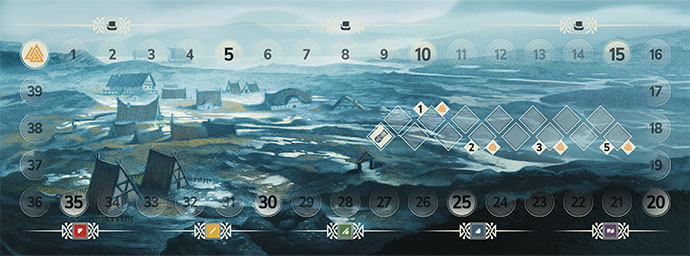
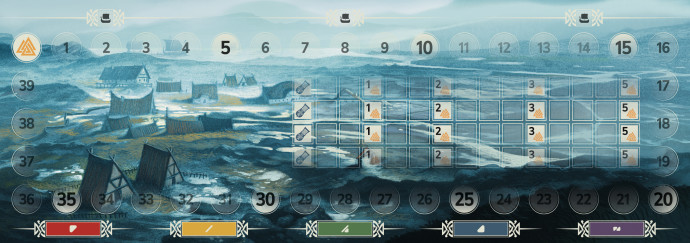
new board

diff --git a/modules/js/Game.js b/modules/js/Game.js
@@ -497,8 +497,8 @@ class RenewBuildings {
     }
 }
 
-const POINT_CASE_SIZE_LEFT = 38.8;
-const POINT_CASE_SIZE_TOP = 37.6;
+const POINT_CASE_SIZE_LEFT = 39.8;
+const POINT_CASE_SIZE_TOP = 38.2;
 function sleep(ms) {
     return new Promise((r) => setTimeout(r, ms));
 }
@@ -555,8 +555,8 @@ class TableCenter {
             ${['B', 'A'].map(letter => `<div id="table-destinations-${letter}-deck" class="table-destinations-deck"></div> <div id="table-destinations-${letter}"></div>`).join('')}
             <div id="board-left"></div> <div id="board">
                 ${players.map(player => `
-                    <div id="player-${player.id}-vp-marker" class="marker" data-player-id="${player.id}" data-player-no="${player.playerNo}" data-color="${player.color}"><div class="inner vp"></div></div>
-                    <div id="player-${player.id}-reputation-marker" class="marker" data-player-id="${player.id}" data-player-no="${player.playerNo}" data-color="${player.color}"><div class="inner reputation"></div></div>
+                    <div id="player-${player.id}-vp-marker" class="marker vp" data-player-id="${player.id}" data-player-no="${player.playerNo}" data-color="${player.color}"><div class="inner"></div></div>
+                    <div id="player-${player.id}-reputation-marker" class="marker reputation" data-player-id="${player.id}" data-player-no="${player.playerNo}" data-color="${player.color}"><div class="inner"></div></div>
                     `).join('')}
             </div>
             <div id="card-deck"></div> <div id="table-cards"></div>
@@ -584,7 +584,7 @@ class TableCenter {
         this.cards = new BgaCards.SlotStock /*<Card>*/(game.cardsManager, document.getElementById(`table-cards`), {
             slotsIds: [1, 2, 3, 4, 5],
             mapCardToSlot: card => card.locationArg,
-            gap: '12px',
+            gap: '16px',
         });
         this.cards.onCardClick = card => this.game.onTableCardClick(card);
         this.cards.addCards(gamedatas.centerCards);
@@ -661,7 +661,7 @@ class TableCenter {
         const cases = points % 40;
         const top = cases >= 16 ? (cases > 36 ? (40 - cases) : Math.min(4, cases - 16)) * POINT_CASE_SIZE_TOP : 0;
         const left = cases > 20 ? (36 - Math.min(cases, 36)) * POINT_CASE_SIZE_LEFT : Math.min(16, cases) * POINT_CASE_SIZE_LEFT;
-        return [22 + left, 39 + top];
+        return [14 + left, 34 + top];
     }
     moveVP() {
         this.vp.forEach((points, playerId) => {
@@ -684,27 +684,12 @@ class TableCenter {
         this.vp.set(playerId, points);
         this.moveVP();
     }
-    getReputationCoordinates(points) {
-        const cases = points;
-        const top = cases % 2 ? -14 : 0;
-        const left = cases * 16.9;
-        return [368 + left, 123 + top];
-    }
     moveReputation() {
         this.reputation.forEach((points, playerId) => {
             const markerDiv = document.getElementById(`player-${playerId}-reputation-marker`);
-            const coordinates = this.getReputationCoordinates(points);
-            const left = coordinates[0];
-            const top = coordinates[1];
-            let topShift = 0;
-            let leftShift = 0;
-            this.reputation.forEach((iPoints, iPlayerId) => {
-                if (iPoints === points && iPlayerId < playerId) {
-                    topShift += 5;
-                    //leftShift += 5;
-                }
-            });
-            markerDiv.style.transform = `translateX(${left + leftShift}px) translateY(${top + topShift}px)`;
+            const left = 293 + 23.35 * points;
+            const top = 76 + 24 * (this.game.bga.players.getPlayer(playerId).playerNo - 1);
+            markerDiv.style.transform = `translateX(${left}px) translateY(${top}px)`;
         });
     }
     setReputation(playerId, reputation) {

diff --git a/src/table-center.ts b/src/table-center.ts
@@ -2,8 +2,8 @@ import { ANIMATION_MS } from "./Game";
 import { Card, KnarrGame, KnarrGamedatas, NotifCardDeckResetArgs, Destination, Building, RaidToken } from "./knarr.d";
 import { BgaCards } from "./libs";
 
-const POINT_CASE_SIZE_LEFT = 38.8;
-const POINT_CASE_SIZE_TOP = 37.6;
+const POINT_CASE_SIZE_LEFT = 39.8;
+const POINT_CASE_SIZE_TOP = 38.2;
 
 function sleep(ms: number){
     return new Promise((r) => setTimeout(r, ms));
@@ -87,8 +87,8 @@ export class TableCenter {
             <div id="board-left"></div> <div id="board">
                 ${players.map(player =>
                     `
-                    <div id="player-${player.id}-vp-marker" class="marker" data-player-id="${player.id}" data-player-no="${player.playerNo}" data-color="${player.color}"><div class="inner vp"></div></div>
-                    <div id="player-${player.id}-reputation-marker" class="marker" data-player-id="${player.id}" data-player-no="${player.playerNo}" data-color="${player.color}"><div class="inner reputation"></div></div>
+                    <div id="player-${player.id}-vp-marker" class="marker vp" data-player-id="${player.id}" data-player-no="${player.playerNo}" data-color="${player.color}"><div class="inner"></div></div>
+                    <div id="player-${player.id}-reputation-marker" class="marker reputation" data-player-id="${player.id}" data-player-no="${player.playerNo}" data-color="${player.color}"><div class="inner"></div></div>
                     `
                 ).join('')}
             </div>
@@ -121,7 +121,7 @@ export class TableCenter {
         this.cards = new BgaCards.SlotStock/*<Card>*/(game.cardsManager, document.getElementById(`table-cards`), {
             slotsIds: [1, 2, 3, 4, 5],
             mapCardToSlot: card => card.locationArg,
-            gap: '12px',
+            gap: '16px',
         });
         this.cards.onCardClick = card => this.game.onTableCardClick(card);
         this.cards.addCards(gamedatas.centerCards);
@@ -214,7 +214,7 @@ export class TableCenter {
         const top = cases >= 16 ? (cases > 36 ? (40 - cases) : Math.min(4, cases - 16)) * POINT_CASE_SIZE_TOP : 0;
         const left = cases > 20 ? (36 - Math.min(cases, 36)) * POINT_CASE_SIZE_LEFT : Math.min(16, cases) * POINT_CASE_SIZE_LEFT;
 
-        return [22 + left, 39 + top];
+        return [14 + left, 34 + top];
     }
 
     private moveVP() {
@@ -243,33 +243,13 @@ export class TableCenter {
         this.moveVP();
     }
 
-    private getReputationCoordinates(points: number) {
-        const cases = points;
-
-        const top = cases % 2 ? -14 : 0;
-        const left = cases * 16.9;
-
-        return [368 + left, 123 + top];
-    }
-
     private moveReputation() {
         this.reputation.forEach((points, playerId) => {
             const markerDiv = document.getElementById(`player-${playerId}-reputation-marker`);
-
-            const coordinates = this.getReputationCoordinates(points);
-            const left = coordinates[0];
-            const top = coordinates[1];
+            const left = 293 + 23.35 * points;
+            const top = 76 + 24 * (this.game.bga.players.getPlayer(playerId).playerNo - 1);
     
-            let topShift = 0;
-            let leftShift = 0;
-            this.reputation.forEach((iPoints, iPlayerId) => {
-                if (iPoints === points && iPlayerId < playerId) {
-                    topShift += 5;
-                    //leftShift += 5;
-                }
-            });
-    
-            markerDiv.style.transform = `translateX(${left + leftShift}px) translateY(${top + topShift}px)`;
+            markerDiv.style.transform = `translateX(${left}px) translateY(${top}px)`;
         });
     }
     

diff --git a/knarr.css b/knarr.css
@@ -984,10 +984,10 @@ body > .card {
 #table-center #board-raid-tokens {
   align-items: center;
   position: absolute;
-  left: 80px;
+  left: 60px;
   top: 80px;
   bottom: 80px;
-  width: 260px;
+  width: 220px;
 }
 #table-center .table-destinations-deck {
   margin-left: -102px;
@@ -999,16 +999,28 @@ body > .card {
 #table-center #board {
   position: relative;
   width: 690px;
-  height: 256px;
+  height: 243px;
   background: url("img/board.jpg");
 }
 #table-center #board .marker {
   position: absolute;
   top: 0;
   left: 0;
+  transition: transform 0.5s;
+}
+#table-center #board .marker.vp {
   width: 26px;
   height: 26px;
-  transition: transform 0.5s;
+}
+#table-center #board .marker.vp .inner {
+  background-image: url("img/vp-pawns.png");
+}
+#table-center #board .marker.reputation {
+  width: 20px;
+  height: 20px;
+}
+#table-center #board .marker.reputation .inner {
+  background-image: url("img/reputation-pawns.png");
 }
 #table-center #board .marker .inner {
   position: absolute;
@@ -1042,9 +1054,10 @@ body > .card {
   bottom: 0;
   left: 0;
   right: 0;
-  background: orange;
-  border-radius: 50%;
   box-shadow: 0 0 5px 5px orange;
+}
+#table-center #board .marker.vp.highlight::before {
+  border-radius: 50%;
 }
 #table-center #table-cards .slot {
   width: 120px;

diff --git a/src/table-center.scss b/src/table-center.scss
@@ -26,10 +26,10 @@
   #board-raid-tokens {
     align-items: center;
     position: absolute;
-    left: 80px;
+    left: 60px;
     top: 80px;
     bottom: 80px;
-    width: 260px;
+    width: 220px;
   }
 
   .table-destinations-deck {
@@ -46,17 +46,32 @@
   #board {
     position: relative;
     width: 690px;
-    height: 256px;
+    height: 243px;
     background: url('img/board.jpg');
 
     .marker {
       position: absolute;
       top: 0;
       left: 0;
-      width: 26px;
-      height: 26px;
       transition: transform 0.5s; 
       //pointer-events: none;
+        
+      &.vp {
+        width: 26px;
+        height: 26px;
+
+        .inner {
+          background-image: url('img/vp-pawns.png');
+        }
+      }
+      &.reputation {
+        width: 20px;
+        height: 20px;
+
+        .inner {
+          background-image: url('img/reputation-pawns.png');
+        }
+      }
 
       .inner {
         position: absolute;
@@ -88,9 +103,13 @@
           bottom: 0;
           left: 0;
           right: 0;
-          background: orange;
-          border-radius: 50%;
           box-shadow: 0 0 5px 5px orange;
+        }
+      }
+
+      &.vp.highlight {
+        &::before {
+          border-radius: 50%;
         }
       }
     }
